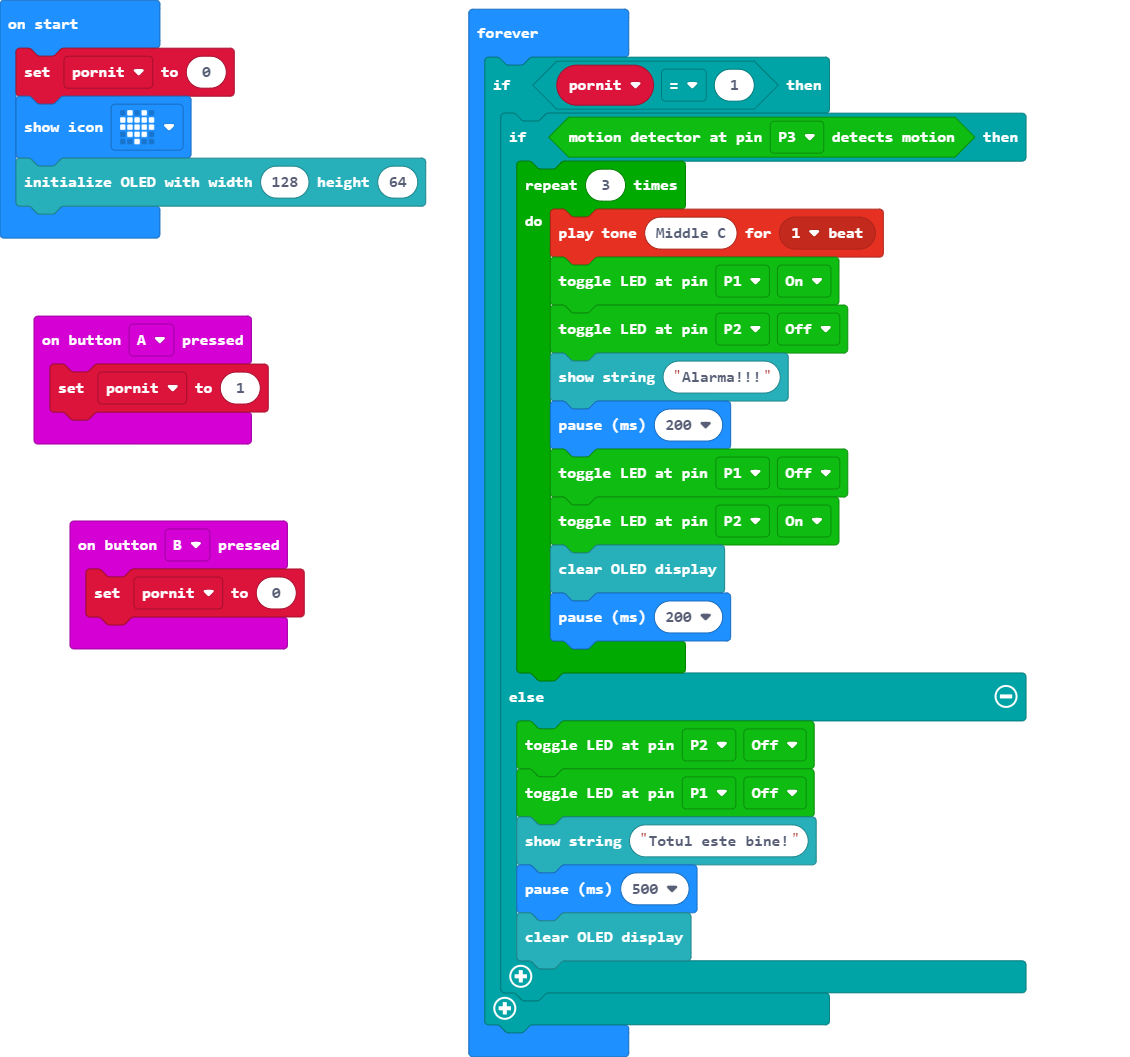
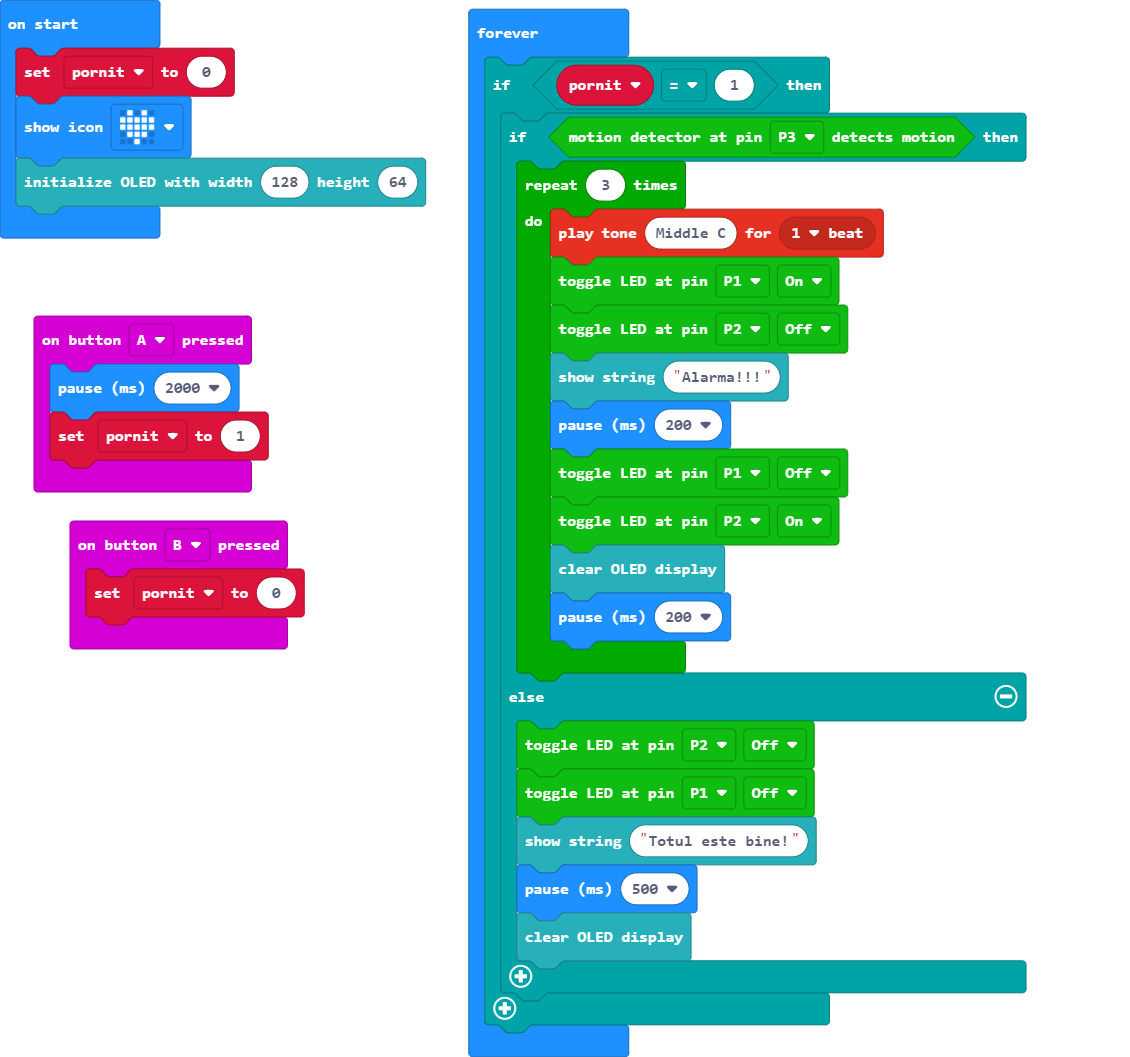
Update main.blocks, main.ts

Changed region(s): [[0.031, 0.3434, 0.2478, 0.4683]]

diff --git a/main.ts b/main.ts
@@ -1,4 +1,5 @@
 input.onButtonPressed(Button.A, function () {
+    basic.pause(2000)
     pornit = 1
 })
 input.onButtonPressed(Button.B, function () {
